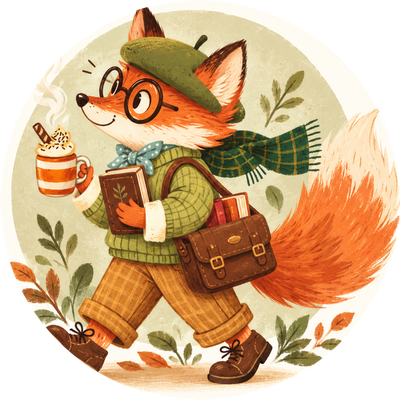
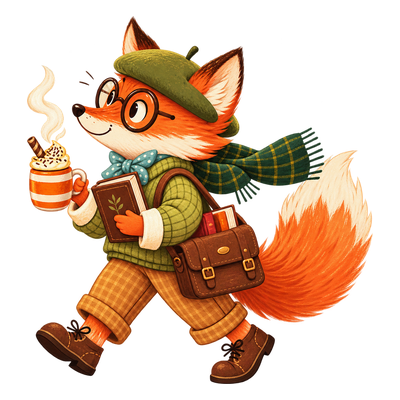
Stand the mascot on its own transparent cut-out
The artwork behind Fluentify's mark is now a cut-out with a transparent
background, so the picture's silhouette is the icon. Cropping it to a disc and
compositing it on cream put back the border the art no longer has: the boot
mark, the header avatar and the message avatar now carry no frame or ring, and
their shadow is a drop-shadow that follows the figure instead of the square the
PNG is drawn in. Only the launcher composite gets paper behind it, because a
legacy launcher icon has no background layer of its own.

The bob moved to a wrapper and the filter stayed on the picture: a filter on an
animated element is re-rasterised every frame, which the page already forbids.

🤖 Generated with Codebuff

diff --git a/android/app/src/main/assets/www/index.html b/android/app/src/main/assets/www/index.html
@@ -246,14 +246,25 @@
   @keyframes bootSpin {
     to { transform: rotate(1turn); }
   }
-  /* The mascot itself, not a redrawn copy of it: the same picture the header
-     and the launcher show, cut round so the well behind it frames it. */
-  .boot-fox {
-    position: relative; z-index: 1;
-    width: 80px; height: 80px; border-radius: 50%;
-    box-shadow: 0 8px 22px rgba(74,58,30,.28), 0 0 0 1px rgba(43,48,73,.10);
+  /* The mascot itself, not a redrawn copy of it: the same cut-out the header
+     and the launcher show, standing in the well behind it. The picture brings
+     its own transparent background, so it needs no disc and no border - a
+     rounded frame around a figure that is already ragged would show as a
+     square behind it. The shadow is a drop-shadow for the same reason: it
+     follows the silhouette instead of the box the PNG is drawn in. */
+  .boot-fox-bob {
+    position: relative; z-index: 1; display: grid; place-items: center;
     animation: bootBob 2.8s cubic-bezier(.45,0,.55,1) infinite;
     transform-origin: 50% 62%;
+  }
+  /* The bob is on the wrapper and the shadow on the picture: a filter on an
+     animated element is re-rasterised every frame (see the backdrop's own
+     note), and this shadow is a per-pixel blur of a 100px cut-out. 86px of
+     picture is 79px of figure inside the well's 100px - the first cut at
+     100px put the beret and the tail through the ring. */
+  .boot-fox {
+    width: 86px; height: 86px; display: block;
+    filter: drop-shadow(0 7px 12px rgba(74,58,30,.30));
   }
   @keyframes bootBob {
     0%, 100% { transform: translateY(0) rotate(-1.5deg); }
@@ -343,7 +354,7 @@
     .boot { transition: none; }
     .boot-in { animation: none; }
     .boot-aurora i, .boot-halo { animation: none; }
-    .boot-fox { animation: none; }
+    .boot-fox-bob { animation: none; }
     .loader::before, .loader::after { animation: none; }
     .boot-track i { transition: none; }
   }
@@ -699,7 +710,7 @@
     box-shadow: none;
   }
   .avatar img {
-    width: 40px; height: 40px; display: block; border-radius: 50%;
+    width: 40px; height: 40px; display: block;
   }
   /* the mascot reacts to the daily seed */
   @keyframes bob { 0%,100% { transform: translateY(0) rotate(0deg); }
@@ -2710,8 +2721,10 @@
     <div class="boot-in">
       <div class="boot-mark" aria-hidden="true">
         <span class="boot-halo"></span>
-        <img class="boot-fox" src="brand/fox-mark.png" alt="" width="80"
-             height="80" decoding="async">
+        <span class="boot-fox-bob">
+          <img class="boot-fox" src="brand/fox-mark.png" alt="" width="86"
+               height="86" decoding="async">
+        </span>
       </div>
       <div class="boot-brand">
         <div class="boot-name">Fluentify</div>
@@ -2915,8 +2928,9 @@
 <script>
 /* Fluentify's mascot — the fox, cut from the one brand picture
    (brand/fox-source.png, via tools/build_brand.py). The header, the boot
-   screen, the launcher icon and every message row show this same animal:
-   the face here because a full-length portrait at 26px is an orange smudge. */
+   screen, the launcher icon and every message row show this same animal, and
+   all of them keep the picture's transparent background: the face here
+   because a full-length portrait at 26px is an orange smudge. */
 const MASCOT =
   '<img class="mface" src="brand/fox-face.png" alt="" width="26" ' +
   'height="26" decoding="async">';

diff --git a/tools/build_brand.py b/tools/build_brand.py
@@ -5,8 +5,8 @@ The mascot is a picture now, not geometry. One source file
 (brand/fox-source.png - the illustration the brand was chosen from) produces
 everything that draws it:
 
-    brand/fox-mark.png          the whole character, round - boot screen
-    brand/fox-face.png          the head, round - header + message avatars
+    brand/fox-mark.png          the whole figure, transparent - boot screen
+    brand/fox-face.png          the head, transparent - header + message avatars
     android/.../mipmap-*/       the launcher icon, every density, both shapes
 
 Nothing is drawn per surface. Every copy is the same crop of the same file, so
@@ -14,8 +14,15 @@ the icon in the launcher cannot drift from the picture in the app - which is
 exactly what happened when the boot screen carried a hand-redrawn copy of the
 header's SVG: the two were meant to be one animal and were not.
 
-Crops are recorded here once, in source pixel coordinates, so a re-cut is an
-edit to this file rather than an afternoon of eyeballing a canvas.
+The source is a cut-out with a transparent background, so no circular mask is
+applied to what the app draws: the picture already carries its own silhouette,
+and a disc around it would put back the border the artwork does not have. Only
+the launcher's legacy icons - which have no background layer of their own - are
+composited onto paper.
+
+Crops are recorded here once, as fractions of the source, so a re-cut is an
+edit to this file rather than an afternoon of eyeballing a canvas, and a new
+export of the same artwork at another size still lines up.
 
     python3 tools/build_brand.py
 """
@@ -36,18 +43,25 @@ ROOT = Path(__file__).resolve().parent.parent
 SOURCE = ROOT / "brand" / "fox-source.png"
 BRAND = ROOT / "brand"
 
-# The cream the illustration is printed on. The icon background uses the
-# picture's own paper rather than the app's --base, so the art has no seam.
+# The paper the launcher composites legacy icons onto: the illustration's own
+# cream, so the cut-out has no seam against the tile it stands on.
 CREAM = (253, 250, 241, 255)
 
-# The whole character inside its circular backdrop. The square is the picture's
-# own: 1082 px wide, from the backdrop's top-left to its bottom-right corner.
-MARK_BOX = (116, 74, 1198, 1156)
+# Alpha below this is export dust around the artwork, not the artwork: it is
+# what "trim to the picture" ignores when it finds the figure's edges.
+ALPHA_FLOOR = 24
 
-# The head: beret, spectacles, muzzle and the neckerchief under it. Square, and
-# centred on the face rather than on the figure - at 26 px in a message row a
+# Air around the figure inside its square, as a fraction of the longest side.
+# The cut-out is 1136x1207 of picture, so trimming alone would leave the tail
+# touching one edge and the beret the other.
+MARK_PAD = 0.04
+
+# The head: beret, spectacles, muzzle, and the neckerchief under it. In
+# fractions of the source, so it survives a re-export at another resolution.
+# Centred on the face rather than on the figure - at 26 px in a message row a
 # full-length portrait reads as an orange smudge, a face reads as a fox.
-FACE_BOX = (352, 100, 848, 596)
+FACE_BOX = (0.235, 0.010, 0.645, 0.402)
+FACE_PAD = 0.020
 
 # Android: the icon is generated at every density rather than scaled by the
 # launcher. mdpi is the baseline, and each step is 1.5x the one before it.
@@ -55,73 +69,81 @@ DENSITIES = {"mdpi": 48, "hdpi": 72, "xhdpi": 96, "xxhdpi": 144, "xxxhdpi": 192}
 MIPMAP = ROOT / "android/app/src/main/res"
 
 # Adaptive icons are a 108dp layer whose visible viewport is the central 72dp
-# (66dp is the guaranteed safe zone). The art is exactly that 72dp: the mask
-# then lands on the portrait's own circular edge - no cream ring around a
-# picture that is already a circle - while the character inside it keeps a
-# margin, so no mask shape and no launcher's crop can take the hat or the tail
-# with it. At 80dp the beret was already touching the top of the mask.
+# (66dp is the guaranteed safe zone). The art is that 72dp including its own
+# padding, so the figure lands at roughly 66dp: no mask shape and no launcher's
+# crop can take the hat or the tail with it, while the icon still looks filled.
 ADAPTIVE_DP = 108
 ART_DP = 72
 
 # Legacy (API 24-25) icons are drawn as-is, so they carry their own shape and
-# padding: a rounded square of paper with the round portrait inset.
-LEGACY_ART = 0.86
+# padding: a rounded square of paper with the character standing on it.
+LEGACY_ART = 0.88
 LEGACY_RADIUS = 0.22
 
 
-def circle(im: Image.Image) -> Image.Image:
-    """The crop, cut to a circle with an antialiased edge."""
-    im = im.convert("RGBA")
-    ss = 4                                    # supersample the mask, not the art
-    big = im.resize((im.width * ss, im.height * ss), Image.LANCZOS)
-    mask = Image.new("L", big.size, 0)
-    ImageDraw.Draw(mask).ellipse((0, 0, big.width - 1, big.height - 1), fill=255)
-    big.putalpha(mask)
-    return big.resize(im.size, Image.LANCZOS)
+def trimmed(im: Image.Image) -> Image.Image:
+    """The picture without the empty margin around it."""
+    box = im.getchannel("A").point(
+        lambda v: 255 if v > ALPHA_FLOOR else 0).getbbox()
+    if box is None:
+        raise ValueError("the crop contains no visible pixels")
+    return im.crop(box)
 
 
-def art(src: Image.Image, box: tuple[int, int, int, int], size: int) -> Image.Image:
-    crop = circle(src.crop(box))
-    return crop.resize((size, size), Image.LANCZOS)
+def square(im: Image.Image, size: int, pad: float) -> Image.Image:
+    """The crop, trimmed, scaled to fit a transparent square of air."""
+    im = trimmed(im)
+    inner = max(1, int(round(size * (1 - 2 * pad))))
+    scale = min(inner / im.width, inner / im.height)
+    im = im.resize((max(1, int(round(im.width * scale))),
+                    max(1, int(round(im.height * scale)))), Image.LANCZOS)
+    out = Image.new("RGBA", (size, size), (0, 0, 0, 0))
+    out.alpha_composite(im, ((size - im.width) // 2, (size - im.height) // 2))
+    return out
 
 
 def composed(art_im: Image.Image, size: int, shape: str) -> Image.Image:
-    """The portrait inset on its paper, in a rounded square or a disc."""
+    """The character standing on paper, in a rounded square or a disc."""
     canvas = Image.new("RGBA", (size, size), CREAM)
     d = int(round(size * LEGACY_ART))
-    scaled = art_im.resize((d, d), Image.LANCZOS)
-    canvas.alpha_composite(scaled, ((size - d) // 2, (size - d) // 2))
-    if shape == "round":
-        mask = Image.new("L", (size * 4, size * 4), 0)
-        ImageDraw.Draw(mask).ellipse((0, 0, size * 4 - 1, size * 4 - 1), fill=255)
-        out = Image.new("RGBA", (size, size), (0, 0, 0, 0))
-        out.paste(canvas, (0, 0), mask.resize((size, size), Image.LANCZOS))
-        return out
+    canvas.alpha_composite(art_im.resize((d, d), Image.LANCZOS),
+                           ((size - d) // 2, (size - d) // 2))
     mask = Image.new("L", (size * 4, size * 4), 0)
-    ImageDraw.Draw(mask).rounded_rectangle(
-        (0, 0, size * 4 - 1, size * 4 - 1), radius=int(size * 4 * LEGACY_RADIUS),
-        fill=255)
+    draw = ImageDraw.Draw(mask)
+    if shape == "round":
+        draw.ellipse((0, 0, size * 4 - 1, size * 4 - 1), fill=255)
+    else:
+        draw.rounded_rectangle((0, 0, size * 4 - 1, size * 4 - 1),
+                               radius=int(size * 4 * LEGACY_RADIUS), fill=255)
     out = Image.new("RGBA", (size, size), (0, 0, 0, 0))
     out.paste(canvas, (0, 0), mask.resize((size, size), Image.LANCZOS))
     return out
+
+
+def box_px(box: tuple[float, float, float, float], w: int, h: int):
+    """A fractional crop as source pixels, snapped inward."""
+    return (int(round(box[0] * w)), int(round(box[1] * h)),
+            int(round(box[2] * w)), int(round(box[3] * h)))
 
 
 def main() -> int:
     if not SOURCE.exists():
         return _fail(f"{SOURCE.relative_to(ROOT)} is missing - it is the one "
                      "picture every Fluentify mark is cut from")
-    src = Image.open(SOURCE).convert("RGB")
+    src = Image.open(SOURCE).convert("RGBA")
     w, h = src.size
-    for name, box in (("mark", MARK_BOX), ("face", FACE_BOX)):
+    face_box = box_px(FACE_BOX, w, h)
+    for name, box in (("face", face_box),):
         if not (0 <= box[0] < box[2] <= w and 0 <= box[1] < box[3] <= h):
             return _fail(f"the {name} crop {box} falls outside the {w}x{h} source")
 
     # ---- what the app draws ------------------------------------------------
     # 400 px covers the boot mark at 3x density; 256 the message avatar at 4x
-    # (26 CSS px). Both are round, so the tile behind them shows through the
-    # corners instead of squaring the picture off.
-    mark = art(src, MARK_BOX, 400)
-    face = art(src, FACE_BOX, 256)
+    # (26 CSS px). Both keep their transparency, so whatever is behind them -
+    # the boot screen's glow, the header's sand - shows through the gaps in the
+    # silhouette instead of being squared off by an opaque tile.
+    mark = square(src, 400, MARK_PAD)
+    face = square(src.crop(face_box), 256, FACE_PAD)
     BRAND.mkdir(exist_ok=True)
     mark.save(BRAND / "fox-mark.png", optimize=True)
     face.save(BRAND / "fox-face.png", optimize=True)
@@ -131,10 +153,10 @@ def main() -> int:
     for density, px in DENSITIES.items():
         folder = MIPMAP / f"mipmap-{density}"
         folder.mkdir(parents=True, exist_ok=True)
-        # The portrait is cut once per density: the foreground layer is 108dp,
+        # The character is cut once per density: the foreground layer is 108dp,
         # so its art is ART_DP of that at the same scale as the icons beside it.
         fg_px = int(round(px * ADAPTIVE_DP / 48))
-        small = art(src, MARK_BOX, px)
+        small = square(src, px, MARK_PAD)
         foreground = Image.new("RGBA", (fg_px, fg_px), (0, 0, 0, 0))
         d = int(round(fg_px * ART_DP / ADAPTIVE_DP))
         foreground.alpha_composite(small.resize((d, d), Image.LANCZOS),
@@ -148,7 +170,8 @@ def main() -> int:
             written.append(f"mipmap-{density}/{name}")
 
     total = sum((MIPMAP / p).stat().st_size for p in written)
-    print(f"brand: fox-mark.png {mark.size[0]}px, fox-face.png {face.size[0]}px")
+    print(f"brand: fox-mark.png {mark.size[0]}px, fox-face.png {face.size[0]}px, "
+          "both transparent")
     print(f"launcher: {len(written)} files, {total / 1024:.0f} KB, "
           f"{DENSITIES['mdpi']}-{DENSITIES['xxxhdpi']} px, art {ART_DP}/{ADAPTIVE_DP} dp")
     return 0

diff --git a/webapp.py b/webapp.py
@@ -312,14 +312,25 @@ HTML_TEMPLATE = r"""<!DOCTYPE html>
   @keyframes bootSpin {
     to { transform: rotate(1turn); }
   }
-  /* The mascot itself, not a redrawn copy of it: the same picture the header
-     and the launcher show, cut round so the well behind it frames it. */
-  .boot-fox {
-    position: relative; z-index: 1;
-    width: 80px; height: 80px; border-radius: 50%;
-    box-shadow: 0 8px 22px rgba(74,58,30,.28), 0 0 0 1px rgba(43,48,73,.10);
+  /* The mascot itself, not a redrawn copy of it: the same cut-out the header
+     and the launcher show, standing in the well behind it. The picture brings
+     its own transparent background, so it needs no disc and no border - a
+     rounded frame around a figure that is already ragged would show as a
+     square behind it. The shadow is a drop-shadow for the same reason: it
+     follows the silhouette instead of the box the PNG is drawn in. */
+  .boot-fox-bob {
+    position: relative; z-index: 1; display: grid; place-items: center;
     animation: bootBob 2.8s cubic-bezier(.45,0,.55,1) infinite;
     transform-origin: 50% 62%;
+  }
+  /* The bob is on the wrapper and the shadow on the picture: a filter on an
+     animated element is re-rasterised every frame (see the backdrop's own
+     note), and this shadow is a per-pixel blur of a 100px cut-out. 86px of
+     picture is 79px of figure inside the well's 100px - the first cut at
+     100px put the beret and the tail through the ring. */
+  .boot-fox {
+    width: 86px; height: 86px; display: block;
+    filter: drop-shadow(0 7px 12px rgba(74,58,30,.30));
   }
   @keyframes bootBob {
     0%, 100% { transform: translateY(0) rotate(-1.5deg); }
@@ -409,7 +420,7 @@ HTML_TEMPLATE = r"""<!DOCTYPE html>
     .boot { transition: none; }
     .boot-in { animation: none; }
     .boot-aurora i, .boot-halo { animation: none; }
-    .boot-fox { animation: none; }
+    .boot-fox-bob { animation: none; }
     .loader::before, .loader::after { animation: none; }
     .boot-track i { transition: none; }
   }
@@ -765,7 +776,7 @@ HTML_TEMPLATE = r"""<!DOCTYPE html>
     box-shadow: none;
   }
   .avatar img {
-    width: 40px; height: 40px; display: block; border-radius: 50%;
+    width: 40px; height: 40px; display: block;
   }
   /* the mascot reacts to the daily seed */
   @keyframes bob { 0%,100% { transform: translateY(0) rotate(0deg); }
@@ -2776,8 +2787,10 @@ HTML_TEMPLATE = r"""<!DOCTYPE html>
     <div class="boot-in">
       <div class="boot-mark" aria-hidden="true">
         <span class="boot-halo"></span>
-        <img class="boot-fox" src="brand/fox-mark.png" alt="" width="80"
-             height="80" decoding="async">
+        <span class="boot-fox-bob">
+          <img class="boot-fox" src="brand/fox-mark.png" alt="" width="86"
+               height="86" decoding="async">
+        </span>
       </div>
       <div class="boot-brand">
         <div class="boot-name">Fluentify</div>
@@ -2980,8 +2993,9 @@ HTML_TEMPLATE = r"""<!DOCTYPE html>
 <script>
 /* Fluentify's mascot — the fox, cut from the one brand picture
    (brand/fox-source.png, via tools/build_brand.py). The header, the boot
-   screen, the launcher icon and every message row show this same animal:
-   the face here because a full-length portrait at 26px is an orange smudge. */
+   screen, the launcher icon and every message row show this same animal, and
+   all of them keep the picture's transparent background: the face here
+   because a full-length portrait at 26px is an orange smudge. */
 const MASCOT =
   '<img class="mface" src="brand/fox-face.png" alt="" width="26" ' +
   'height="26" decoding="async">';

diff --git a/README.md b/README.md
@@ -154,12 +154,18 @@ handler, because those strings are inserted with `innerHTML`.
 
 ### The mascot
 
-One illustration, one pipeline. `brand/fox-source.png` is the artwork, and
-`python3 tools/build_brand.py` cuts everything the app draws from it: the round
-portrait in `brand/` (boot screen, header, message rows, tab icon) and all
-twelve launcher PNGs plus the three adaptive foregrounds under
-`android/app/src/main/res/mipmap-*`. Re-cutting a crop is an edit to that file,
-not a new drawing.
+One illustration, one pipeline. `brand/fox-source.png` is the artwork — a
+cut-out on a transparent background — and `python3 tools/build_brand.py` cuts
+everything the app draws from it: the whole figure and the head in `brand/`
+(boot screen, header, message rows, tab icon) and all twelve launcher PNGs plus
+the three adaptive foregrounds under `android/app/src/main/res/mipmap-*`.
+Re-cutting a crop is an edit to that file, not a new drawing.
+
+The transparency is used, not filled in: the boot mark and the avatars carry no
+disc, frame or ring, and their shadow is a `drop-shadow` that follows the
+silhouette instead of the square the PNG is drawn in. The launcher is the one
+place that gets a background, because a legacy launcher icon has no background
+layer of its own and the system paints nothing behind it.
 
 Nothing is redrawn per surface. That is the point: the mascot was a hand-drawn
 SVG for a while, and the boot screen carried a second copy of it that had to be
